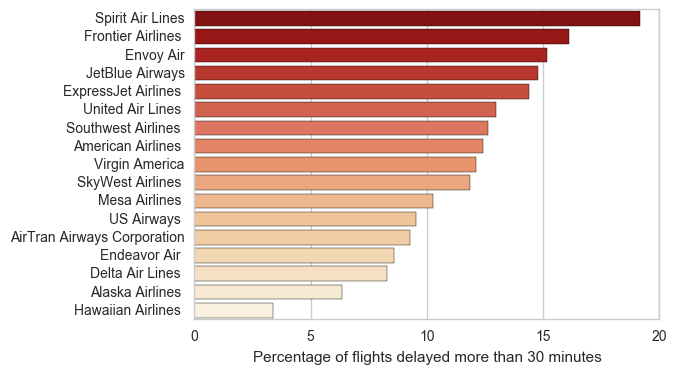
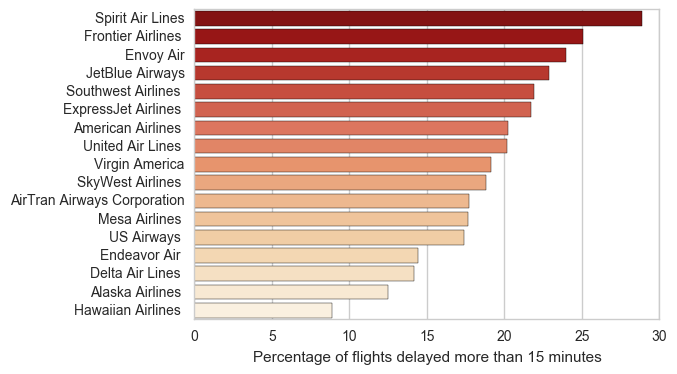
airline-part2

diff --git a/_posts/2016-12-14-airline-delay1.md b/_posts/2016-12-14-airline-delay1.md
@@ -11,14 +11,16 @@ tags:
   - python
 ---
 
+Flight delays are among the biggest nightmares for travellers. According to the Bureau of Transportation Statistics, there are about ~15,000 scheduled flights per day in the United States, with more than two million passengers flying every day! [(Source)](http://www.nytimes.com/2013/02/12/business/2012-was-the-safest-year-for-airlines-globally-since-1945.html?pagewanted=all&_r=0). While majority of scheduled flights land at or before their scheduled time, about 19% of all flights are delayed.
 
-Flight delays are among the biggest nightmares for travellers, be it the occassional flyer or the regular commuter. According to the Bureau of Transportation Statistics, there are about ~15,000 scheduled flights per day in the United States, with more than two million passengers flying every day! [(Source)](http://www.nytimes.com/2013/02/12/business/2012-was-the-safest-year-for-airlines-globally-since-1945.html?pagewanted=all&_r=0) 
+A delay is defined as any flight which arrives at the gate at least 15 minutes later than the scheduled arrival time. Data shows that an average of 2950 flights are delayed more than 15 minutes every day! Traditionally, the biggest causes for airline delays have been weather and bottlenecks in the Federal Aviation Administration's system, which includes factors like congested airports and other problems with the air-traffic system. However, according to a [Bloomberg report](![Atlanta Airport][busy_airport]), delays caused by Airline factors have exceeded delays caused by weather or the air-traffic system. These include late arrivals triggered by mechanical breakdowns, lack of flight crews and other factors attributed to the airlines companies. 
 
-![Atlanta Airport][busy_airport]
+In this project, I intend to use several years of flight data from the [Bureau of Transportation Statistics](http://www.transtats.bts.gov/DL_SelectFields.asp?Table_ID=236)
+to find out which airlines are the best and worst performers, and which airline performs the best given a particular route. 
 
-While majority of these flights land at or before their scheduled time, about 19% of all flights are delayed more than 15 minutes. That translates to an average of 2950 flights delayed more than 15 minutes every day! The largest reason for flight delays is undoubtedly local weather at the origin and the destination, besides many other reasons leading to significant delays - such as Tarmac delays, Airport congestion delays, Carrier delays, Traffic delays, etc. While weather cannot be predicted in advance, other delay components can be predictable. 
+![Atlanta Airport][busy_airport] 
 
-I used a corpus of data from 17 million flights from September 2013 to August 2016 from the website of the [Bureau of Transportation Statistics](http://www.transtats.bts.gov/DL_SelectFields.asp?Table_ID=236). The data is made available in monthly files, with the option to select the fields for download. For this study, I focused on four things:
+I used a corpus of data from 17 million flights from September 2013 to August 2016 from the website of the BTS. The data is made available in monthly files, with the option to select the fields for download. For this study, I focused on four things:
 
 1. Exploring historical arrival delays across different airlines, airports and time of the day, trying to get some insights on which airlines or airports are more prone to delays.
 2. Studying the effect of weather on airline delays. Given bad weather, does one airline perform better than the other?
@@ -30,13 +32,17 @@ The code for the analysis can be found [here](https://github.com/xcitech/airline
 
 ## Exploring Historical flight delays
 
-The best measure for on-time performance of a flight is ARR_DELAY, which is the difference in minutes between scheduled and actual arrival time. Early arrivals show negative numbers. I started by visualizing the ARR_DELAY for the top ten airlines sorted by the number of scheduled flights in our dataset.
+The best measure for on-time performance of a flight is the difference in minutes between scheduled and actual arrival time. The dataset contains this information in the ARR_DELAY feature, and early arrivals show negative numbers. I started by visualizing the arrival delays for the top ten airlines, sorted by the number of scheduled flights in our dataset.
 
 ![Flight Paths][violin_plot]
 
 > *ARR_DELAY for the top 10 Airlines (by number of flights)*
 
-It is observed that the median Arrival Delay lies between -10 and 0 for all the airlines, i.e. most flights arrive before time. The width of the plots at 30 denotes the frequency of flights arriving 30 minutes or more after the scheduled arrival time. However, if we consider only Arrival Delays (i.e. Early arrivals are considered as 0), the average delay lies between 5 and 15 minutes.  
+It is observed that the median Arrival Delay lies between -10 and 0 for all the airlines, i.e. most flights arrive before time. The width of the plots at 30 denotes the frequency of flights arriving 30 minutes or more after the scheduled arrival time. However, a better measure for quantifying the performance of airlines would not consider early arrivals as negative delays, since it brings down the mean arrival delays to near zero values. 
+
+## Which Airline should you choose?
+
+If we consider only late arrivals as Positive Arrival Delays (i.e. Early or on-time arrivals are considered as 0), the average delay lies between 5 and 15 minutes.  
 
 <script
     src="https://xcitech.github.io/assets/bokeh_js/interact_barchart_select.js"
@@ -45,16 +51,15 @@ It is observed that the median Arrival Delay lies between -10 and 0 for all the 
     data-bokeh-doc-id="05cacb08-3476-4ae1-8f9c-9ebe42f821e5"
 ></script>
 
-## Which Airline should you choose?
-As see above, most flights tend to arrive on or before time. But still, a big chunk of flights do get delayed by more than 30 minutes. Which airlines have the worst records of delays greater than 30 minutes?
+As see above, most flights tend to arrive on or before time. But still, a big chunk of flights do get delayed by more than 15 minutes. Which airlines have the worst records of delays greater than 15 minutes?
 
 ![Carrier Delays][carrier_delay]
 
-Spirit Airlines is the worst performer, with 19% of its flights delayed more than 30 minutes, followed by Frontier Airlines (16%) and Envoy Air (15%). Hawaiian Airlines and Alaska Airlines are the best performers, with only 3.4% and 6.3% of their flights delayed more than 30 minutes respectively.
+Spirit Airlines is the worst performer, with 28.8% of its flights delayed more than 15 minutes, followed by Frontier Airlines (25%) and Envoy Air (24%). Hawaiian Airlines and Alaska Airlines are the best performers, with only 8.8% and  12.5% of their flights delayed more than 15 minutes respectively.
 
 ![Flight Paths][flight_paths]
 
-> *Flight paths delayed more than 10 minutes on average. Darker lines represent greater average delays*
+> *Flight paths delayed more than 15 minutes on average. Darker lines represent greater average delays*
 
 ## What time of the day are you most likely to be delayed?
 
@@ -108,7 +113,7 @@ Finally, we use our model to predict ARR_DELAY with mean weather of the Origin a
 
 Some airlines tend to perform better when we discount the effect of weather. For example, Expressjet has a higher average delay than JetBlue - however, when we discount the effect of weather from arrival delays, JetBlue has a higher average arrival delay. For Delta Airlines, average arrival delays are significantly reduced when the effect of weather is removed. 
 
-To summarize, weather is the most important factor leading to flight delays. By removing the effect of weather, we can provide a level playing ground to compare two airlines head-on on their on-time performances. There is much more to explore with this dataset, factoring in passenger load, airport load, routes, etc... just waiting to be analyzed. In the next part, I will develop a scoring mechanism to rate and compare the performances of all airlines operating on an user-defined route (Origin-Destination airport pair).
+To summarize, weather is a big factor leading to flight delays. By offsetting the effect of weather, we can provide a level playing ground to compare two airlines head-on. There is much more to explore with this dataset, factoring in passenger load, airport load, routes, etc... just waiting to be analyzed. In the next part, I will compare performances of all airlines operating on an user-defined specific routes (Origin-Destination airport pair).
 
 ---
 
@@ -117,4 +122,5 @@ To summarize, weather is the most important factor leading to flight delays. By 
 [carrier_delay]: https://xcitech.github.io/assets/images/carrier_delay.png "CARRIER_DELAY"
 [top50]: https://xcitech.github.io/assets/images/top50.png "TOP 50 AIRPORTS"
 [flight_paths]: https://xcitech.github.io/assets/images/flight_paths.png "Flight paths"
+[airline_performance]: https://xcitech.github.io/assets/images/airline_performance.png "Airline Performance"
 [model]: https://xcitech.github.io/assets/images/model_explain.png "Model Explanation"

diff --git a/_posts/2016-12-15-airline-delay2.md b/_posts/2016-12-15-airline-delay2.md
@@ -1,0 +1,20 @@
+---
+title: "Predicting Airline Delays: Part 2"
+header:
+  image: https://xcitech.github.io/assets/images/LA_header.jpg
+excerpt_separator: "<!--more-->"
+categories:
+  - Projects
+tags:
+  - Airline delay
+  - machine learning
+  - python
+---
+
+## Which airline should you choose?
+
+![Airline Performance][airline_performance]
+
+
+---
+[airline_performance]: https://xcitech.github.io/assets/images/airline_performance.png "Airline Performance"
